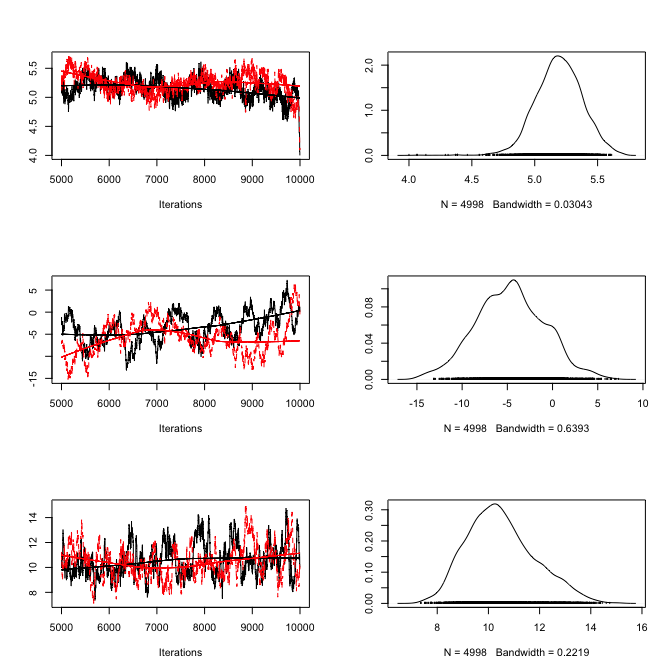
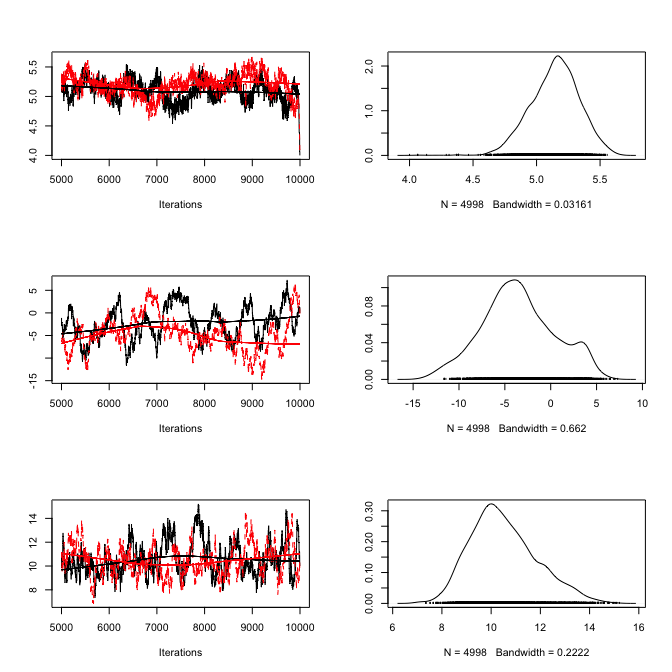
updates

diff --git a/CommentedCode/02-Samplers/MCMC/Metropolis.md b/CommentedCode/02-Samplers/MCMC/Metropolis.md
@@ -27,7 +27,7 @@ sampleSize <- 31
 x <- (-(sampleSize-1)/2):((sampleSize-1)/2)
 # Create dependent values according to ax + b + N(0,sd)
 y <-  trueA * x + trueB + rnorm(n=sampleSize,mean=0,sd=trueSd)
- 
+
 # Plot data
 plot(x,y, main="Test Data")
 ```
@@ -54,10 +54,13 @@ likelihood <- function(param){
     sd = param[3]
      
     pred = a*x + b
+    
     singlelikelihoods = dnorm(y, mean = pred, sd = sd, log = T)
     sumll = sum(singlelikelihoods)
     return(sumll)  
 }
+
+
  
 # Example: plot the likelihood profile of the slope a
 slopevalues <- function(x){return(likelihood(c(x, trueB, trueSd)))}
@@ -79,7 +82,9 @@ As a second step, as always in Bayesian statistics, we have to specify a prior d
 
 * I use wide normal distributions for slope and intercept, a standard choice. If I would have many predictors and therefore the danger of overfitting, one could think about making them more narrow, deliberately biasing them towards 0
 
-* I am using a flat prior on 1/sd^2 (the latter expression is often called the precision), which is a standard non-informative choice for the variance. One would think that a flat prior on the variance would be a better idea, but one can show that this would typically lead to too much probability mass for large variances, effectively introducing a bias in the analysis. NOTE: good uniformative choices for parameters are not neccessarily flat!!!
+* I am using a flat prior on 1/sd^2 (the latter expression is often called the precision), which is a standard non-informative choice for the variance. This then corresponds to a decay of the standard deviation with 1/sqrt(sd).
+
+One would think that a flat prior on the variance would be a better idea, but one can show that this would typically lead to too much probability mass for large variances, effectively introducing a bias in the analysis. NOTE: good uniformative choices for parameters are not neccessarily flat!!!
 
 
 
@@ -91,8 +96,7 @@ prior <- function(param){
     aprior = dnorm(param[1], sd = 50, log = T)
     bprior = dnorm(param[2], sd = 50, log = T)
     
-    precision = 1/param[3]^2
-    sdprior = dunif(precision, min=0, max=30, log = T)
+    sdprior = 1/sqrt(param[3]) + dunif(param[3], min=0, max=30, log = T)
     return(aprior+bprior+sdprior)
 }
 ```
@@ -166,7 +170,7 @@ The first steps of the algorithm may be biased by the initial value, and are the
 
 ```r
 burnin = 5000
-result <- mcmc(chain[burnin:ncol(chain),], start = burnin)
+result <- mcmc(chain[burnin:nrow(chain),], start = burnin)
 ```
 
 The mcmc function is part of the coda R package that provides a number of standard functions for plotting and analysis of the posterior samples. For those functions to work, you need to have your output as an object of class “mcmc”, or “mcmc.list”, which we will discuss later. Coda is the standard package for this type of analysis, and most Bayesian packages in R use this class to return MCMC outputs, so you will likely come across this syntax whatever Bayesian code you are running.
@@ -188,25 +192,34 @@ summary(result)
 
 ```
 ## 
-## Iterations = 5000:9997
+## Iterations = 5000:10001
 ## Thinning interval = 1 
 ## Number of chains = 1 
-## Sample size per chain = 4998 
+## Sample size per chain = 5002 
 ## 
 ## 1. Empirical mean and standard deviation for each variable,
 ##    plus standard error of the mean:
 ## 
 ##         Mean     SD Naive SE Time-series SE
-## [1,]  4.7941 0.2208 0.003123        0.01684
-## [2,] -0.2489 1.8022 0.025492        0.21304
-## [3,] 10.1506 1.2411 0.017555        0.17281
+## [1,]  4.7827 0.2073 0.002931        0.01545
+## [2,] -0.2773 1.7699 0.025025        0.20685
+## [3,] 10.1212 1.3518 0.019113        0.19902
 ## 
 ## 2. Quantiles for each variable:
 ## 
-##        2.5%    25%     50%     75% 97.5%
-## var1  4.372  4.650  4.7911  4.9401  5.23
-## var2 -3.617 -1.529 -0.4292  0.9765  3.41
-## var3  8.022  9.263 10.0035 10.9210 12.83
+##        2.5%    25%     50%     75%  97.5%
+## var1  4.333  4.649  4.7873  4.9328  5.162
+## var2 -4.023 -1.389 -0.1709  0.8774  3.015
+## var3  7.938  9.117  9.9757 10.9121 13.136
+```
+
+```r
+rejectionRate(result)
+```
+
+```
+##      var1      var2      var3 
+## 0.2215557 0.2215557 0.2215557
 ```
 
 An interesting statistics provided by summary is the acceptance rate: how often was a proposal rejected by the metropolis-hastings acceptance criterion? The acceptance rate can be influenced by the proposal function: generally, the closer the proposals are, the larger the acceptance rate. Very high acceptance rates, however, are usually not beneficial: this means that the algorithms is “staying” at the same point, which results in a suboptimal probing of the parameter space (mixing). It can be shown that acceptance rates between 20% and 30% are optimal for typical applications (more on that later).
@@ -341,9 +354,9 @@ gelman.diag(combinedchains)
 ## Potential scale reduction factors:
 ## 
 ##      Point est. Upper C.I.
-## [1,]       1.13       1.48
-## [2,]       1.17       1.59
-## [3,]       1.00       1.02
+## [1,]       1.15       1.54
+## [2,]       1.18       1.62
+## [3,]       1.01       1.02
 ## 
 ## Multivariate psrf
 ## 
